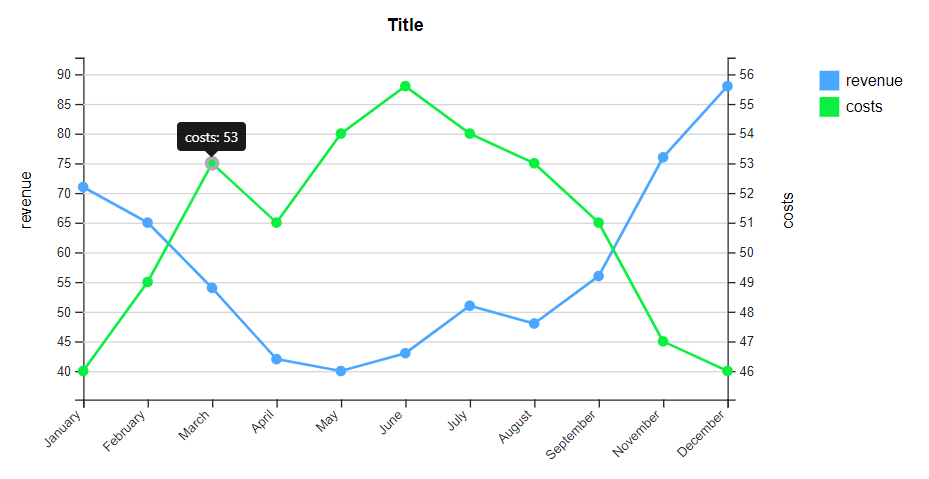
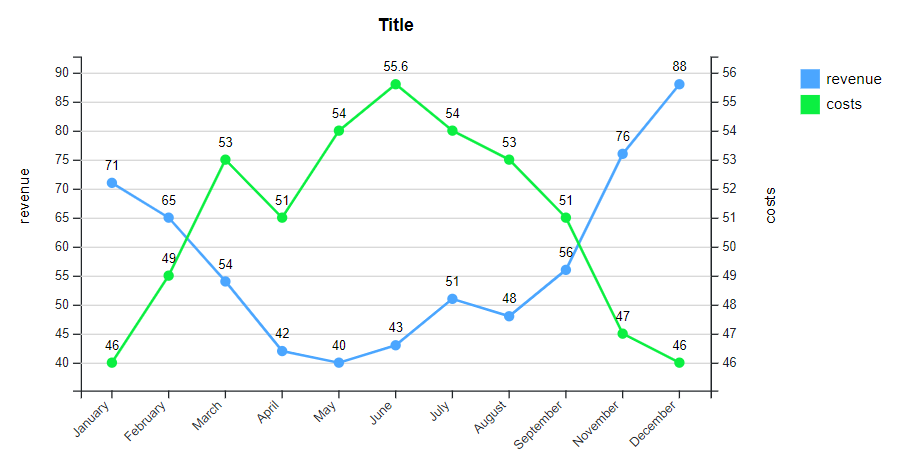
Possibility to add line labels

diff --git a/src/d3Charts.js b/src/d3Charts.js
@@ -11,7 +11,7 @@ function drawComboChart(div,dataset,opt){
     let grid = options.grid || false 
     let height = options.height || 300
     let legend = options.legend || false
-    let line = options.line || {width: 2}
+    let line = options.line || {width: 2, labels: false}
     let margin = options.margin || {top: 50, bottom: 50, left: 50, right: 50}
     let padding = options.padding || 0.1
     let responsiveness = options.responsiveness || false
@@ -265,16 +265,14 @@ function drawComboChart(div,dataset,opt){
     series1.filter(d => types[d] == 'line').forEach(serie => {
         addLine(serie,y1Scale)
         addCircle(serie,y1Scale)
-        if (tooltip){
-            addTooltips(serie)
-        }
+        if (line.labels){addLinelabels(serie,y1Scale)}
+        if (tooltip){addTooltips(serie)}
     })
     series2.filter(d => types[d] == 'line').forEach(serie => {
         addLine(serie,y2Scale)
         addCircle(serie,y2Scale)
-        if (tooltip){
-            addTooltips(serie)
-        }
+        if (line.labels){addLinelabels(serie,y2Scale)}
+        if (tooltip){addTooltips(serie)}
     })
 
     // add titles
@@ -377,7 +375,7 @@ function drawComboChart(div,dataset,opt){
             .attr('dy', '2em')
             .attr('text-anchor', 'middle')
             .text(d => {return (!barlabel || d.series[serie] == 0) ? '' : d.series[serie]})
-            .style('font-size', barlabel.size)
+            .style('font-size', barlabel.size || 10)
             .style('fill', barlabel.color)
             .style('opacity', animation ? '0' : '1')
 
@@ -402,7 +400,24 @@ function drawComboChart(div,dataset,opt){
             .attr("d", valueline)
             .attr('fill', 'none')
             .style('stroke', colorScale(serie))
-            .style('stroke-width', line.width)
+            .style('stroke-width', line.width || 2)
+    }
+
+    function addLinelabels(serie,yScale){
+        svg.append('g')
+            .attr('class','linelabels_' + serie.replace(/[^a-zA-Z0-9-_]/g,'_'))
+            .selectAll('.linelabel')  		
+            .data(data.filter((d,i) => {return typeof d.series[serie] !== 'undefined' && d.series[serie] !== ''}))
+            .enter()
+            .append('text')
+            .attr('class','linelabel')
+            .attr('x', d => categoryScale(d.category) + categoryScale.bandwidth() / 2 )
+            .attr('y', d => yScale(d.series[serie]))
+            .attr('dy', '-1em')
+            .attr('text-anchor', 'middle')
+            .text(d => d.series[serie])
+            .style('font-size', line.labels.size || 10)
+            .style('fill', line.labels.color)
     }
 
     function addCircle(serie,yScale){

diff --git a/demo/index.html b/demo/index.html
@@ -127,6 +127,7 @@
             colors: ['#4BA6FF','#0bef41'],
             grid: true,
             tooltip: true,
+            line: {width:2, labels:{'size':10}},
             circle: {radius: 4, display: true},
             legend: {coord: {x: 620, y: 50}, font: {size: 12}},
             responsiveness: true
@@ -147,7 +148,7 @@
             grid: true,
             tooltip: true,
             circle: {radius: 4, display: true},
-            line: {width: 2},
+            line: {width: 2, labels: false},
             legend: {coord: {x: 620, y: 50}, font: {size: 12}},
             responsiveness: true
             }

diff --git a/README.md b/README.md
@@ -73,7 +73,7 @@ List of all possible parameters that can be defined
 | grid | Show/Hide grid | `true/false` | `false` | ComboChart |
 | height | Height of the element |  | `300` | All |
 | legend | Show legend with options | `{coord: {x: 620, y: 50}, rect: {size: 10, space: 5}, font: {size: 12}}` | `false` | All |
-| line | Options for line |  | `{width: 2}` | ComboChart |
+| line | Options for line |  | `{width: 2, labels:{size:12, color:'#000'}}` | ComboChart |
 | margin | Dict of marginals |  | `{top: 50, bottom: 50, left: 50, right: 50}` | All |
 | maxSliceCount | Maximum number of slices |  | `20` | PieChart |
 | padding | Padding between bars |  | `0.1` | ComboChart |
